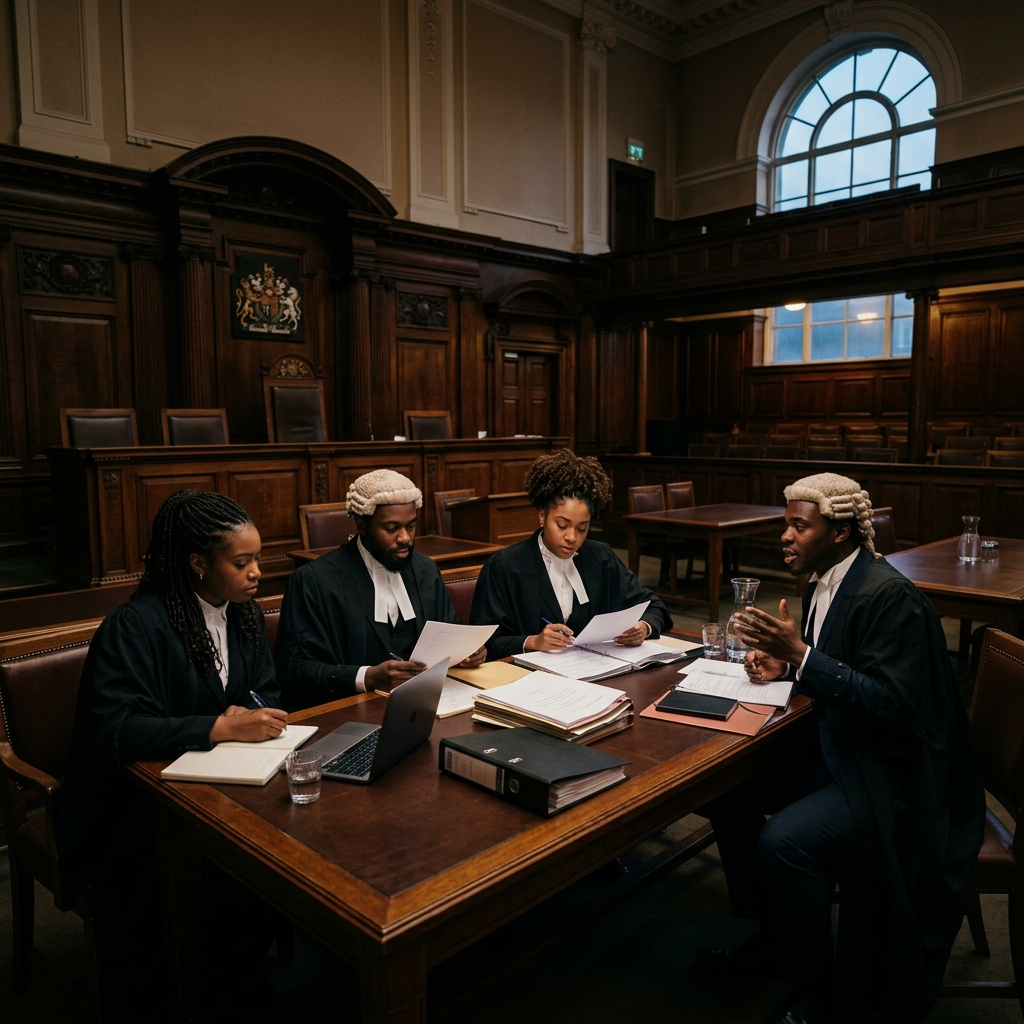
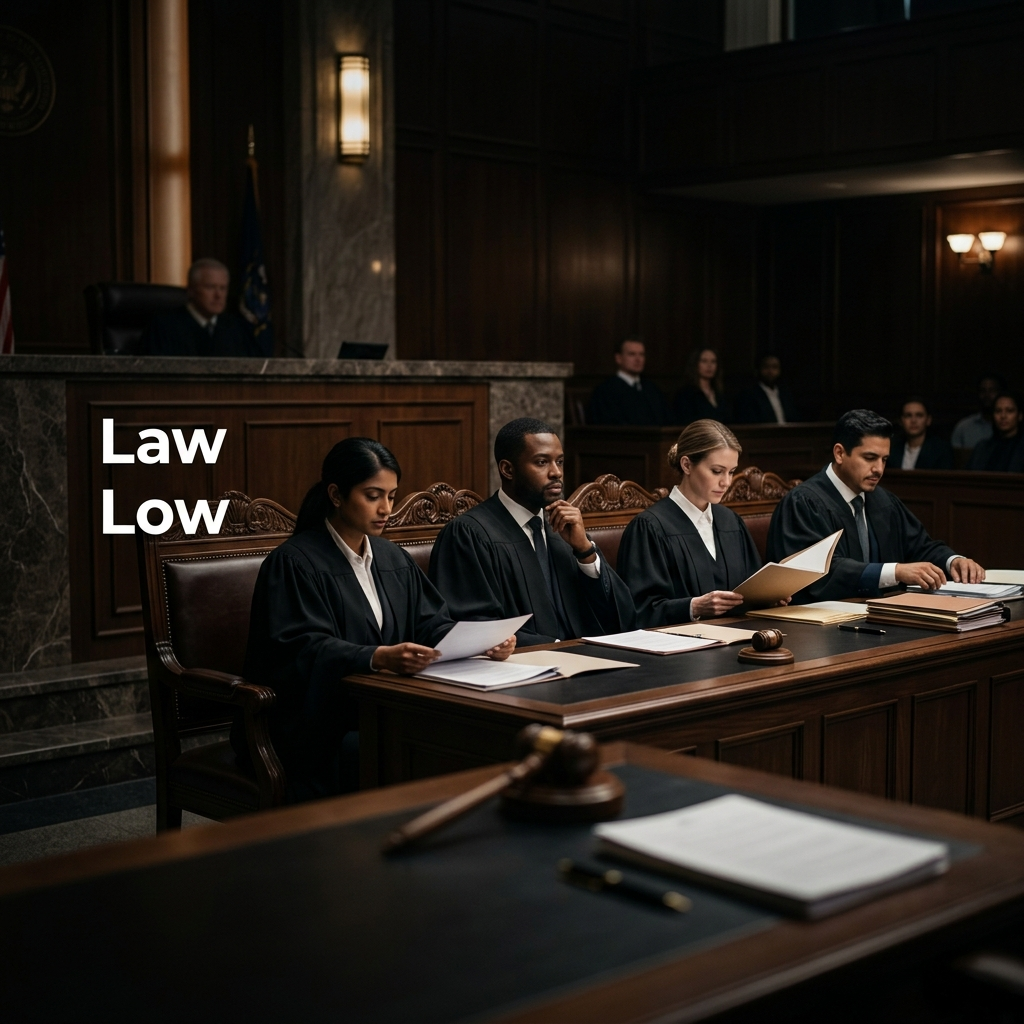
design: correction du titre, retour de l'image des jeunes et aura premium globale

diff --git a/src/app/page.module.css b/src/app/page.module.css
@@ -14,8 +14,8 @@
   left: 0;
   width: 100%;
   height: 100vh;
-  /* Un voile très léger pour que le texte reste lisible, mais l'image est très claire */
-  background-image: linear-gradient(to bottom, rgba(10, 11, 16, 0.1) 0%, rgba(10, 11, 16, 0.3) 70%, rgba(10, 11, 16, 1) 100%), url('/hero-bg.png');
+  /* Assombrissement plus dramatique pour faire ressortir le texte blanc */
+  background-image: linear-gradient(to bottom, rgba(10, 11, 16, 0.5) 0%, rgba(10, 11, 16, 0.5) 70%, rgba(10, 11, 16, 1) 100%), url('/hero-bg.png');
   background-size: cover;
   background-position: center 20%;
   z-index: 0;
@@ -112,29 +112,50 @@
 }
 
 .badge {
-  background: rgba(45, 107, 228, 0.15);
-  border: 1px solid rgba(45, 107, 228, 0.3);
-  color: #93c5fd;
-  padding: 6px 16px;
+  background: rgba(255, 255, 255, 0.05);
+  backdrop-filter: blur(10px);
+  -webkit-backdrop-filter: blur(10px);
+  border: 1px solid rgba(255, 255, 255, 0.15);
+  color: #ffffff;
+  padding: 8px 20px;
   border-radius: 99px;
-  font-size: 14px;
+  font-size: 15px;
   font-weight: 500;
   margin-bottom: 32px;
   display: flex;
   align-items: center;
-  gap: 8px;
+  gap: 10px;
+  box-shadow: 0 4px 20px rgba(0, 0, 0, 0.3);
+}
+
+.badge svg {
+  color: #a5b4fc;
 }
 
 .title {
-  font-size: clamp(48px, 6vw, 72px);
+  font-size: clamp(36px, 5vw, 56px);
   font-weight: 700;
-  line-height: 1.1;
-  letter-spacing: -2px;
+  line-height: 1.2;
+  letter-spacing: -1px;
   margin-bottom: 24px;
   max-width: 900px;
+  text-shadow: 0 10px 40px rgba(0, 0, 0, 0.8);
 }
 
-.title span {
+.mainBrand {
+  display: inline-block;
+  font-size: clamp(64px, 10vw, 110px);
+  font-weight: 900;
+  letter-spacing: -2px;
+  text-transform: uppercase;
+  background: linear-gradient(180deg, #ffffff 0%, #a5b4fc 100%);
+  -webkit-background-clip: text;
+  -webkit-text-fill-color: transparent;
+  margin-bottom: 8px;
+  filter: drop-shadow(0 0 20px rgba(165, 180, 252, 0.5)); /* Aura lumineuse */
+}
+
+.title span:not(.mainBrand) {
   background: linear-gradient(135deg, #60a5fa 0%, #c084fc 100%);
   -webkit-background-clip: text;
   -webkit-text-fill-color: transparent;
@@ -142,29 +163,31 @@
 
 .subtitle {
   font-size: clamp(18px, 2vw, 22px);
-  color: #9ca3af;
+  color: #d1d5db;
   max-width: 600px;
   line-height: 1.6;
   margin-bottom: 48px;
+  text-shadow: 0 4px 10px rgba(0, 0, 0, 0.5);
 }
 
 .primaryBtn {
-  background: linear-gradient(135deg, #2D6BE4 0%, #6366f1 100%);
+  background: linear-gradient(135deg, #2D6BE4 0%, #8b5cf6 100%);
   color: white;
-  padding: 16px 36px;
+  padding: 18px 40px;
   border-radius: 99px;
   font-weight: 600;
   font-size: 18px;
   display: flex;
   align-items: center;
   gap: 12px;
-  box-shadow: 0 10px 30px -10px rgba(45, 107, 228, 0.6);
-  transition: all 0.3s ease;
+  box-shadow: 0 10px 30px -5px rgba(139, 92, 246, 0.5);
+  transition: all 0.4s cubic-bezier(0.175, 0.885, 0.32, 1.275);
+  border: 1px solid rgba(255, 255, 255, 0.15);
 }
 
 .primaryBtn:hover {
-  transform: translateY(-2px);
-  box-shadow: 0 15px 40px -10px rgba(45, 107, 228, 0.8);
+  transform: translateY(-4px) scale(1.02);
+  box-shadow: 0 20px 40px -5px rgba(139, 92, 246, 0.7);
 }
 
 /* Story Section */

diff --git a/src/app/page.tsx b/src/app/page.tsx
@@ -64,7 +64,7 @@ export default function Home() {
           </motion.div>
           
           <motion.h1 variants={fadeUp} className={styles.title}>
-            <span className={styles.mainBrand}>TUINA.AI</span>
+            <span className={styles.mainBrand}>TUINA.AI</span><br />
             L&apos;IA qui accompagne <span>réellement</span> les étudiants en droit.
           </motion.h1>
           